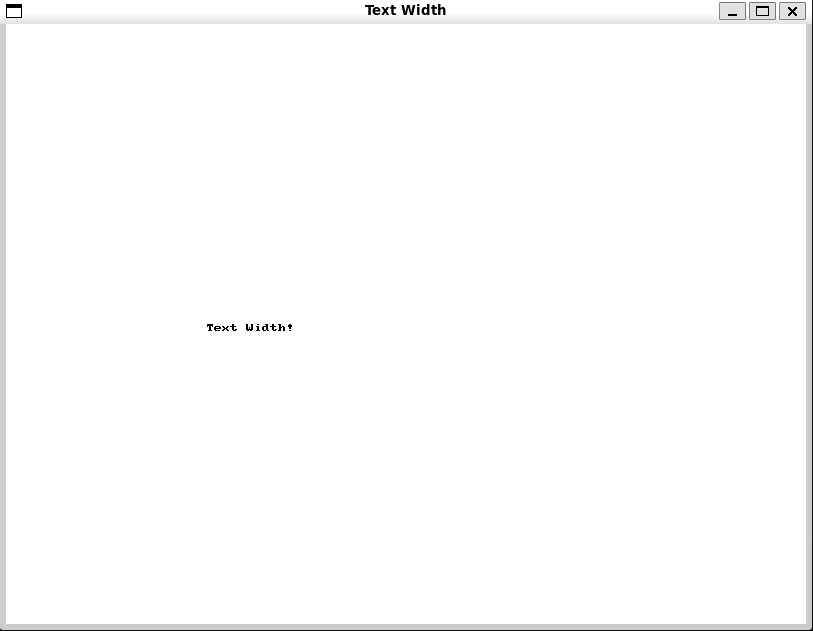
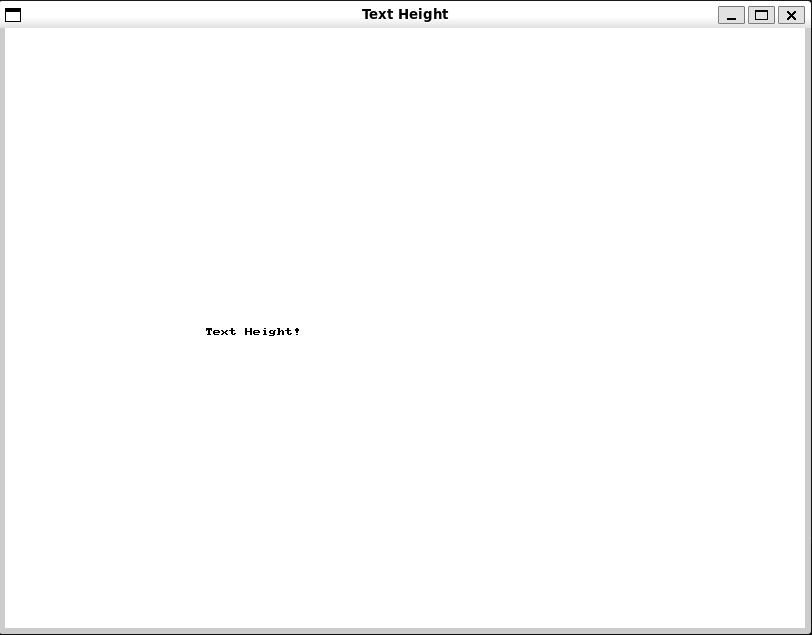
txt

diff --git a/public/usage-examples/graphics/text_height/text_height-1-simple-oop.cs b/public/usage-examples/graphics/text_height/text_height-1-simple-oop.cs
@@ -6,10 +6,10 @@ namespace TextHeight
     {
         public static void Main()
         {           
-            SplashKit.OpenWindow("Text Width", 800, 600);
+            SplashKit.OpenWindow("Text Height", 800, 600);
             SplashKit.ClearScreen();
 
-            string text = "Text Width!";
+            string text = "Text Height!";
 
             // Load font
             SplashKit.LoadFont("my_font", "arial.ttf");

diff --git a/public/usage-examples/graphics/text_height/text_height-1-simple.cpp b/public/usage-examples/graphics/text_height/text_height-1-simple.cpp
@@ -2,13 +2,13 @@
 
 int main()
 {
-    open_window("Text Width", 800, 600);
+    open_window("Text Height", 800, 600);
     clear_screen();
 
     // Load a font
     load_font("my_font", "arial.ttf");
 
-    string text = "Text Width!";
+    string text = "Text Height!";
     //Calculate the text height with size = 16
     int textHeight = text_height(text, "my_font", 16);
 

diff --git a/public/usage-examples/graphics/text_height/text_height-1-simple.py b/public/usage-examples/graphics/text_height/text_height-1-simple.py
@@ -1,13 +1,13 @@
 from splashkit import *
 
 # Open a window
-open_window("Text Width", 800, 600)
+open_window("Text Height", 800, 600)
 
 # Clear the screen to a black background
 clear_screen(color_white())
 
 # Text to display
-text = "Text Width!"
+text = "Text Height!"
 
 # Calculate the text width with Normal font '0' and size 16
 text_width = text_width(text, 0, 16)

diff --git a/public/usage-examples/graphics/text_height/text_height-1-simpletop-level.cs b/public/usage-examples/graphics/text_height/text_height-1-simpletop-level.cs
@@ -1,11 +1,11 @@
 using SplashKitSDK;
 using static SplashKitSDK.SplashKit;
 
-OpenWindow("Text Width", 800, 600);
+OpenWindow("Text Height", 800, 600);
 
 ClearScreen();
 
-string text = "Text Width!";
+string text = "Text Height!";
 
 // Load a font
 LoadFont("my_font", "arial.ttf");
